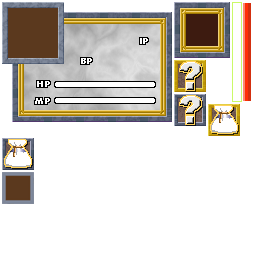
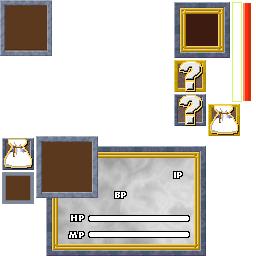
update status ui layout

diff --git a/core/src/com/v5ent/game/hud/StatusUI.java b/core/src/com/v5ent/game/hud/StatusUI.java
@@ -6,14 +6,16 @@ import com.badlogic.gdx.math.MathUtils;
 import com.badlogic.gdx.scenes.scene2d.ui.Image;
 import com.badlogic.gdx.scenes.scene2d.ui.ImageButton;
 import com.badlogic.gdx.scenes.scene2d.ui.Label;
+import com.badlogic.gdx.scenes.scene2d.ui.Table;
 import com.badlogic.gdx.scenes.scene2d.ui.WidgetGroup;
 import com.badlogic.gdx.scenes.scene2d.ui.Window;
+import com.badlogic.gdx.scenes.scene2d.utils.TextureRegionDrawable;
 import com.badlogic.gdx.utils.Align;
 import com.badlogic.gdx.utils.Array;
 import com.v5ent.game.battle.LevelTable;
 import com.v5ent.game.utils.AssetsManager;
 
-public class StatusUI extends Window {
+public class StatusUI extends Table {
     private Image _hpBar;
     private Image _mpBar;
     private Image _xpBar;
@@ -45,11 +47,9 @@ public class StatusUI extends Window {
     private float _barHeight = 0;
 
     public StatusUI(){
-        super("状态", AssetsManager.instance.STATUSUI_SKIN);
-
+        super(AssetsManager.instance.STATUSUI_SKIN);
+        this.setBackground("status");
         _levelTables = LevelTable.getLevelTables(LEVEL_TABLE_CONFIG);
-
-//        _observers = new Array<StatusObserver>();
 
         //groups
         WidgetGroup group = new WidgetGroup();
@@ -77,7 +77,7 @@ public class StatusUI extends Window {
         _mpValLabel = new Label(String.valueOf(_mpVal), AssetsManager.instance.STATUSUI_SKIN);
         Label xpLabel = new Label(" 经验: ", AssetsManager.instance.STATUSUI_SKIN);
         _xpValLabel = new Label(String.valueOf(_xpVal), AssetsManager.instance.STATUSUI_SKIN);
-        Label levelLabel = new Label(" 等级: ", AssetsManager.instance.STATUSUI_SKIN);
+        Label levelLabel = new Label("Level:", AssetsManager.instance.STATUSUI_SKIN);
         _levelValLabel = new Label(String.valueOf(_levelVal), AssetsManager.instance.STATUSUI_SKIN);
         Label goldLabel = new Label(" 金币: ", AssetsManager.instance.STATUSUI_SKIN);
         _goldValLabel = new Label(String.valueOf(_goldVal), AssetsManager.instance.STATUSUI_SKIN);
@@ -93,12 +93,6 @@ public class StatusUI extends Window {
         _hpBar.setWidth(_barWidth * _hpVal/_hpCurrentMax);
         _mpBar.setWidth(_barWidth * _mpVal/_mpCurrentMax);
         _xpBar.setWidth(_barWidth * _xpVal/_xpCurrentMax);
-//        _hpBar.setPosition(3, 6);
-//        _mpBar.setPosition(3, 6);
-//        _xpBar.setPosition(3, 6);
-//        bar.setPosition(3, 6);
-//        bar2.setPosition(3, 6);
-//        bar3.setPosition(3, 6);
 
         //add to widget groups
         group.addActor(_hpBar);
@@ -111,35 +105,43 @@ public class StatusUI extends Window {
         //Add to layout
         defaults().expand().fill();
 
-        //account for the title padding
-        this.pad(this.getPadTop() + 10, 10, 10, 10);
+        //top layout
+        Table leftTable = new Table();
+        leftTable.add(header).size(header.getWidth(), header.getHeight()).pad(2,2,2,2).colspan(2);
+        leftTable.row();
 
-        this.add(header).size(header.getWidth(), header.getHeight());
-//        this.add(header).align(Align.left);
-        this.add(_questButton).align(Align.center);
-        this.add(_inventoryButton).align(Align.right).padRight(10);
-        this.row();
 
-        this.add(group).size(bar.getWidth(), bar.getHeight()).padRight(10);
-        this.add(hpLabel);
-        this.add(_hpValLabel).align(Align.left);
-        this.row();
+        Table rightTable = new Table();
+        rightTable.add(levelLabel).align(Align.left);
+        rightTable.add(_levelValLabel).align(Align.left);
+//        rightTable.add(goldLabel);
+//        rightTable.add(_goldValLabel).align(Align.left);
+        rightTable.row();
 
-        this.add(group2).size(bar2.getWidth(), bar2.getHeight()).padRight(10);
-        this.add(mpLabel);
-        this.add(_mpValLabel).align(Align.left);
-        this.row();
+        rightTable.add(group).size(bar.getWidth(), bar.getHeight()).padRight(10).colspan(4);
+//        rightTable.add(hpLabel);
+//        rightTable.add(_hpValLabel).align(Align.left);
+        rightTable.row();
 
-        this.add(group3).size(bar3.getWidth(), bar3.getHeight()).padRight(10);
-        this.add(xpLabel);
-        this.add(_xpValLabel).align(Align.left).padRight(20);
-        this.row();
+        rightTable.add(group2).size(bar2.getWidth(), bar2.getHeight()).padRight(10).colspan(4);
+//        rightTable.add(mpLabel);
+//        rightTable.add(_mpValLabel).align(Align.left);
+        rightTable.row();
 
-        this.add(levelLabel).align(Align.left);
-        this.add(_levelValLabel).align(Align.left);
-        this.row();
-        this.add(goldLabel);
-        this.add(_goldValLabel).align(Align.left);
+        rightTable.add(group3).size(bar3.getWidth(), bar3.getHeight()).padRight(10).colspan(4);
+//        rightTable.add(xpLabel);
+//        rightTable.add(_xpValLabel).align(Align.left).padRight(20);
+        rightTable.row();
+
+        //
+        Table topTable = new Table();
+        topTable.add(_questButton);
+        topTable.add(_inventoryButton);
+        topTable.row();
+
+        this.add(leftTable);
+        this.add(rightTable);
+        this.add(topTable);
 
 //        this.debug();
         this.pack();

diff --git a/core/src/com/v5ent/game/screens/HUDScreen.java b/core/src/com/v5ent/game/screens/HUDScreen.java
@@ -20,7 +20,7 @@ import com.v5ent.game.utils.Constants;
  */
 public class HUDScreen implements Screen {
     private Stage stage;
-    private DialogUI conversationUI;
+    private DialogUI dialogUI;
     private StatusUI statusUI;
 
     public Stage getStage() {
@@ -33,24 +33,24 @@ public class HUDScreen implements Screen {
         stage = new Stage(viewport);
         statusUI = new StatusUI();
         statusUI.setVisible(true);
-        statusUI.setPosition(0, 0);
-        statusUI.setKeepWithinStage(false);
-        statusUI.setMovable(false);
+        statusUI.setPosition(0,stage.getHeight()-statusUI.getHeight());
+//        statusUI.setKeepWithinStage(false);
+//        statusUI.setMovable(false);
 //        _inventoryUI = new InventoryUI();
-        conversationUI = new DialogUI();
-//        conversationUI.setMovable(true);
-        conversationUI.setModal(true);
-        conversationUI.setVisible(false);
-        conversationUI.setPosition(20, 10);
-        conversationUI.setWidth(stage.getWidth()-40);
-        conversationUI.setHeight(160);
+        dialogUI = new DialogUI();
+        dialogUI.setMovable(false);
+        dialogUI.setModal(true);
+        dialogUI.setVisible(false);
+        dialogUI.setPosition(20, 10);
+        dialogUI.setWidth(stage.getWidth()-40);
+        dialogUI.setHeight(160);
 
         stage.addActor(statusUI);
 //        _stage.addActor(_inventoryUI);
-        stage.addActor(conversationUI);
+        stage.addActor(dialogUI);
 
         statusUI.validate();
-        conversationUI.validate();
+        dialogUI.validate();
 
         //Listeners
         ImageButton inventoryButton = statusUI.getInventoryButton();
@@ -88,20 +88,20 @@ public class HUDScreen implements Screen {
                 }*/
             }
         });
-        conversationUI.getCloseButton().addListener(new ClickListener() {
+        dialogUI.getCloseButton().addListener(new ClickListener() {
                  @Override
                  public void clicked(InputEvent event, float x, float y) {
-                     conversationUI.setVisible(false);
+                     dialogUI.setVisible(false);
                  }
              }
         );
     }
     public void loadSpeech(Role npc){
-        conversationUI.loadConversation(npc);
-        conversationUI.setVisible(true);
+        dialogUI.loadConversation(npc);
+        dialogUI.setVisible(true);
     }
     public void hideSpeech(){
-        conversationUI.setVisible(false);
+        dialogUI.setVisible(false);
     }
     @Override
     public void show() {
